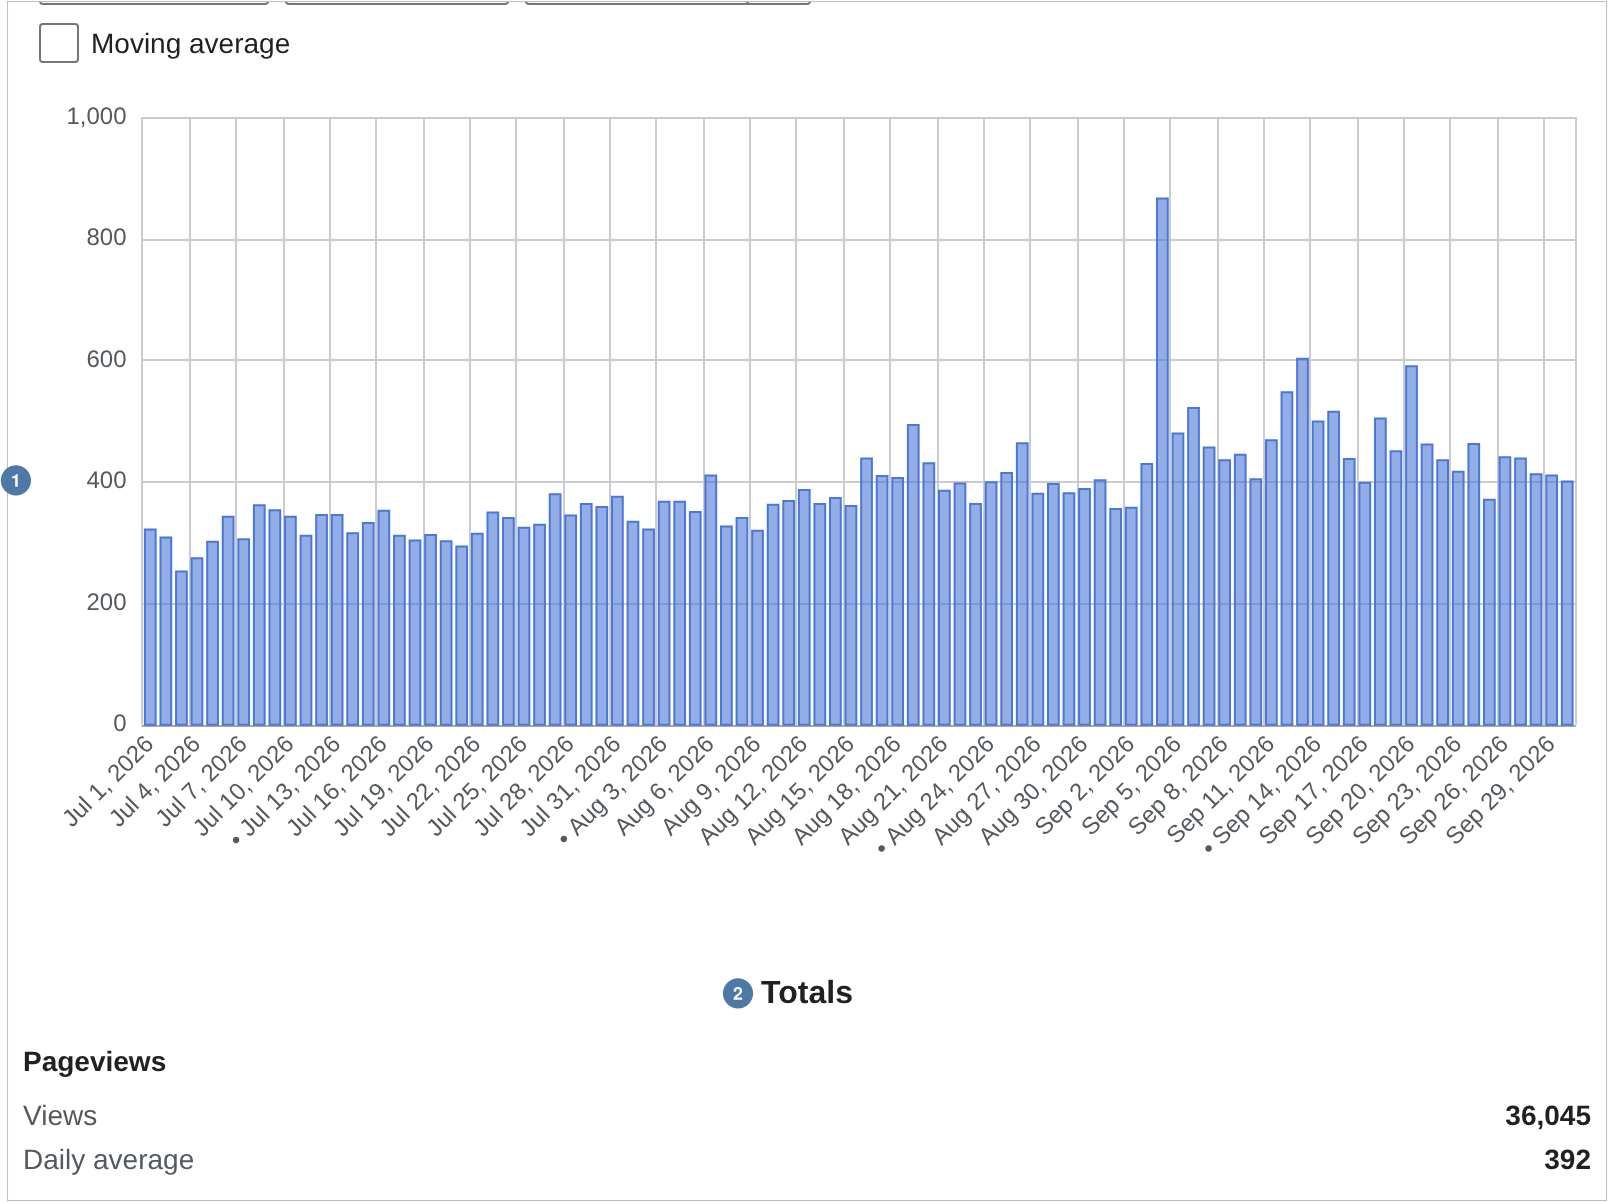
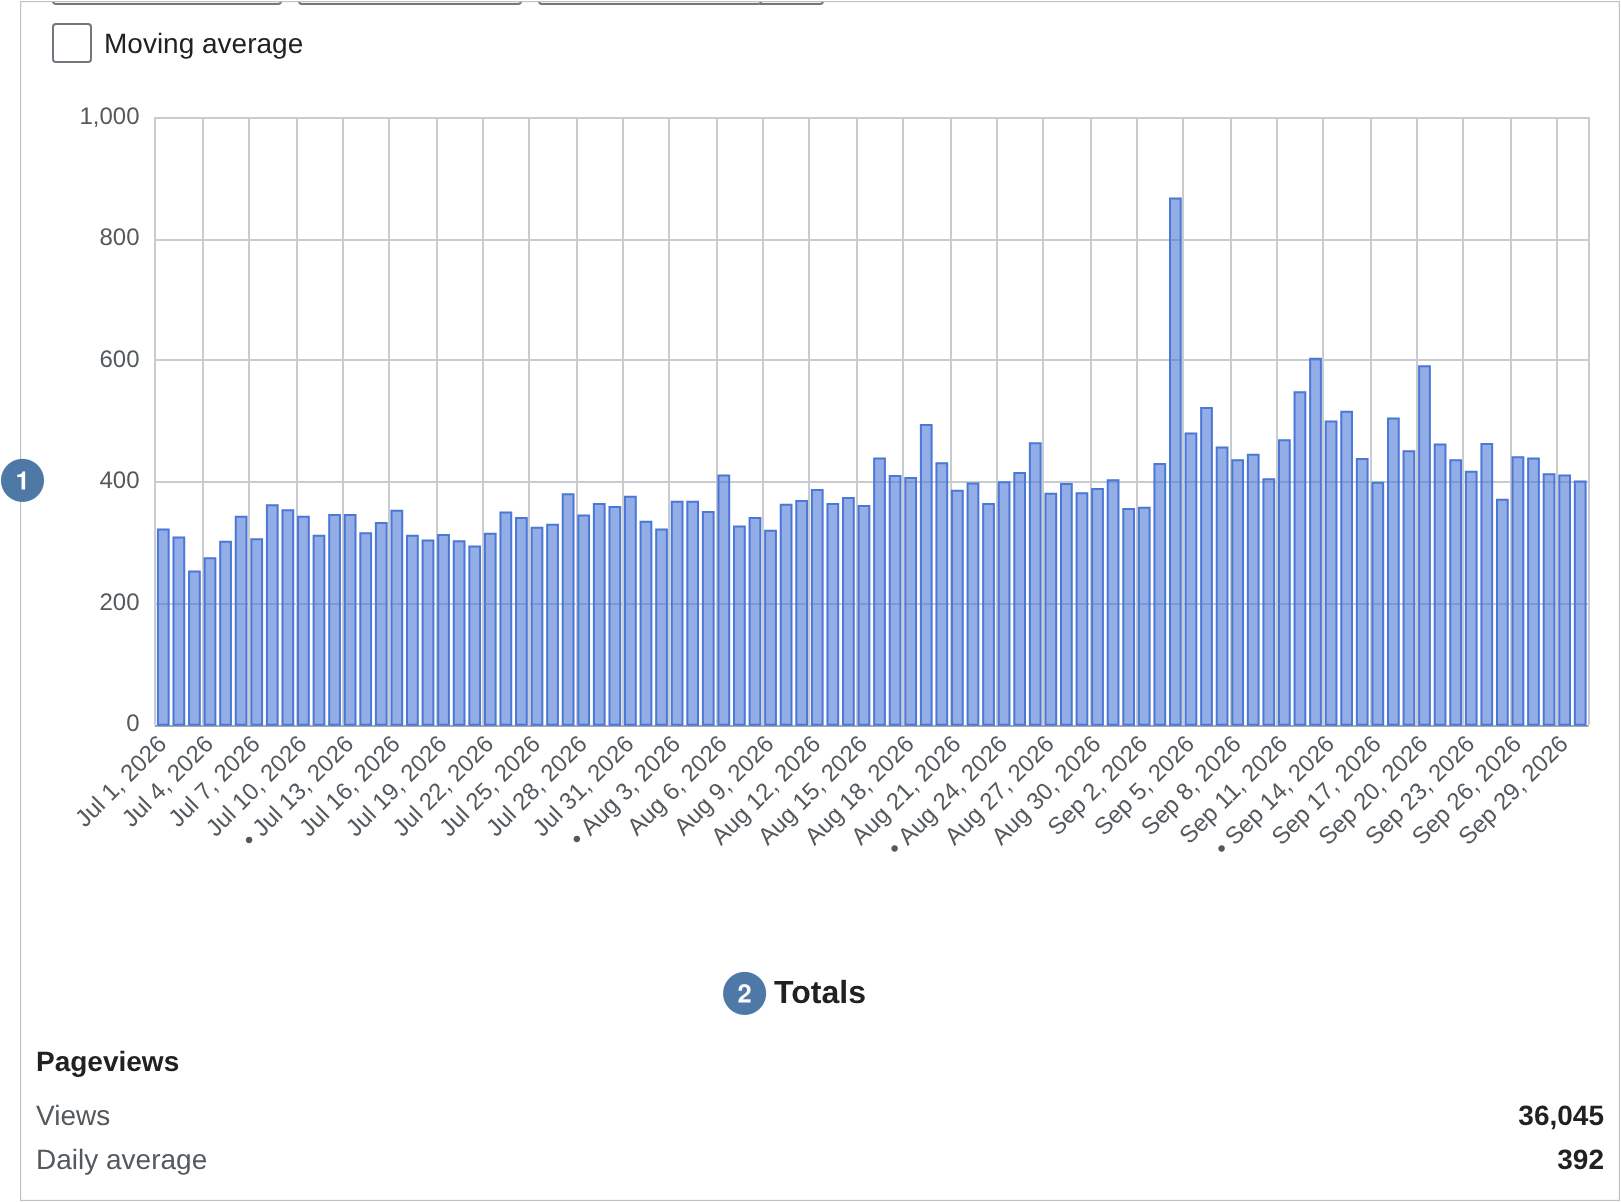
tools/shots: markers with twice the area; chapter 10's figures redrawn
The maintainer asked for the numbered circles to have twice their area, for
every figure (2026-10-19): normal markers go from 11 to 15.56 points, small
ones from 8.5 to 12, and their numbers up one font size. Chapter 10's eleven
screenshots are redrawn from their takes. article-tabs is retaken, with
marker 5 on "flagship university", a link that ends its line, so the larger
circle sits in the space before the infobox instead of on the next line's
words. The selftest passes (125/125).

Claude-Session: https://claude.ai/code/session_015F4Y4x3CRTWSHWqtX2Doqp

diff --git a/tools/shots/lib/annotate.py b/tools/shots/lib/annotate.py
@@ -5,7 +5,7 @@ browser measured (lib/measure.py), so a retake moves the markers with the page:
 
     annotate:
       width_in: 2.625          # printed width of the whole figure; sets the markers' scale
-      size: small              # normal (11 pt) or small (8.5 pt) markers
+      size: small              # normal (15.56 pt) or small (12 pt) markers
       marks:
         - {n: 3, at: {selector: '.field--name-field-award-category-oscars', box: text}}
         - {n: 5, at: {selector: '.field--name-field-honoree-type', box: text}, column: a}
@@ -61,7 +61,9 @@ from . import measure
 from .env import ROOT, TOOL
 
 PT_PER_IN = 72.27
-MARKER_PT = {"normal": 11.0, "small": 8.5}
+# Twice the area of the first markers (11 and 8.5 points), so they read at a glance
+# on a projected slide (the maintainer, 2026-10-19; docs/decisions.md).
+MARKER_PT = {"normal": 15.56, "small": 12.0}
 BRACE_PT = 4.0          # the brace's amplitude (handoutmarkers.sty)
 ARM_PT = 2.0            # a bracket's short arm
 TIP_PT = 1.0            # from a brace's or bracket's tip to its marker or label

diff --git a/images/ch-10/IMAGES.md b/images/ch-10/IMAGES.md
@@ -10,7 +10,7 @@ for people: what a figure shows that is easy to miss, and what a retake needs.
 | `api-response.png` and `api-response_annotated.png`, `.pdf` | capture | 2026-10-16 | https://en.wikipedia.org/w/api.php?action=query&titles=University_of_Colorado_Boulder&prop=info&format=jsonfm | tools/shots: Google Chrome for Testing 154.0.8037.92, 800×600 at 2× |
 | `article-categories.png` and `article-categories_annotated.png`, `.pdf` | capture | 2026-10-16 | https://en.wikipedia.org/wiki/University_of_Colorado_Boulder | tools/shots: Google Chrome for Testing 154.0.8037.92, 800×700 at 2× |
 | `article-references.png` and `article-references_annotated.png`, `.pdf` | capture | 2026-10-16 | https://en.wikipedia.org/wiki/University_of_Colorado_Boulder | tools/shots: Google Chrome for Testing 154.0.8037.92, 800×700 at 2× |
-| `article-tabs.png` and `article-tabs_annotated.png`, `.pdf` | capture | 2026-10-16 | https://en.wikipedia.org/wiki/University_of_Colorado_Boulder | tools/shots: Google Chrome for Testing 154.0.8037.92, 800×860 at 2× |
+| `article-tabs.png` and `article-tabs_annotated.png`, `.pdf` | capture | 2026-10-19 | https://en.wikipedia.org/wiki/University_of_Colorado_Boulder | tools/shots: Google Chrome for Testing 154.0.8037.92, 800×860 at 2× |
 | `cu-boulder-combined.png` | render | 2026-10-16 | https://wikimedia.org/api/rest_v1/metrics/pageviews/per-article/en.wikipedia/all-access/user/Boulder%2C_Colorado/daily/20210101/20260930 | Claude Code: rendered with matplotlib 3.11.2 with requests 2.34.2; imported by tools/shots |
 | `cu-daily-views.png` | render | 2026-10-16 | https://wikimedia.org/api/rest_v1/metrics/pageviews/per-article/en.wikipedia/all-access/user/University_of_Colorado_Boulder/daily/20210101/20260930 | Claude Code: rendered with matplotlib 3.11.2 with requests 2.34.2; imported by tools/shots |
 | `cu-monthly-edits.png` | render | 2026-10-16 | https://en.wikipedia.org/w/api.php?action=query&titles=University_of_Colorado_Boulder&prop=revisions&rvlimit=max&rvstart=2026-09-30T23:59:59Z | Claude Code: rendered with matplotlib 3.11.2 with requests 2.34.2; imported by tools/shots |

diff --git a/tools/shots/README.md b/tools/shots/README.md
@@ -868,7 +868,7 @@ typing in pixel positions.
 ```yaml
 annotate:
   width_in: 2.625        # the whole figure's printed width; sets the markers' scale
-  size: small            # 11-point markers, or small ones (8.5 points)
+  size: small            # 15.56-point markers, or small ones (12 points)
   marks:
     - {n: 3, at: {selector: '.field--name-field-award-category-oscars', box: text}}
     - {n: 5, at: {selector: '.field--name-field-honoree-type', box: text}, column: honoree}
